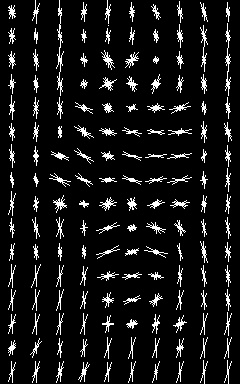
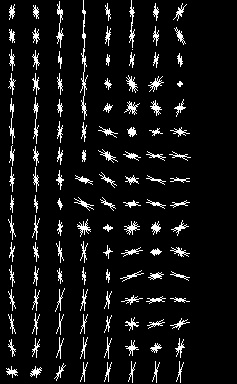
HOG compute添加说明

diff --git a/HOGvisualize/opencvtest/main.cpp b/HOGvisualize/opencvtest/main.cpp
@@ -3,8 +3,177 @@
 using namespace std;
 using namespace cv;
 
-// HOGDescriptor visual_imagealizer
-// adapted for arbitrary size of feature sets and training images
+/*
+OpenCV3.2/sources/samples/cpp/train_HOG.cpp
+Mat get_hogdescriptor_visu(const Mat& color_origImg, vector<float>& descriptorValues, const Size & size )
+也是实现可视化HOG
+From http://www.juergenwiki.de/work/wiki/doku.php?id=public:hog_descriptor_computation_and_visualization
+*/
+Mat get_hogdescriptor_visu(const Mat& color_origImg, vector<float>& descriptorValues, const Size & size)
+{
+	const int DIMX = size.width;
+	const int DIMY = size.height;
+	float zoomFac = 3;
+	Mat visu;
+	resize(color_origImg, visu, Size((int)(color_origImg.cols*zoomFac), (int)(color_origImg.rows*zoomFac)));
+
+	int cellSize = 8;
+	int gradientBinSize = 9;
+	float radRangeForOneBin = (float)(CV_PI / (float)gradientBinSize); // dividing 180 into 9 bins, how large (in rad) is one bin?
+
+																	   // prepare data structure: 9 orientation / gradient strenghts for each cell
+	int cells_in_x_dir = DIMX / cellSize;
+	int cells_in_y_dir = DIMY / cellSize;
+	float*** gradientStrengths = new float**[cells_in_y_dir];
+	int** cellUpdateCounter = new int*[cells_in_y_dir];
+	for (int y = 0; y<cells_in_y_dir; y++)
+	{
+		gradientStrengths[y] = new float*[cells_in_x_dir];
+		cellUpdateCounter[y] = new int[cells_in_x_dir];
+		for (int x = 0; x<cells_in_x_dir; x++)
+		{
+			gradientStrengths[y][x] = new float[gradientBinSize];
+			cellUpdateCounter[y][x] = 0;
+
+			for (int bin = 0; bin<gradientBinSize; bin++)
+				gradientStrengths[y][x][bin] = 0.0;
+		}
+	}
+
+	// nr of blocks = nr of cells - 1
+	// since there is a new block on each cell (overlapping blocks!) but the last one
+	int blocks_in_x_dir = cells_in_x_dir - 1;
+	int blocks_in_y_dir = cells_in_y_dir - 1;
+
+	// compute gradient strengths per cell
+	int descriptorDataIdx = 0;
+	int cellx = 0;
+	int celly = 0;
+
+	for (int blockx = 0; blockx<blocks_in_x_dir; blockx++)
+	{
+		for (int blocky = 0; blocky<blocks_in_y_dir; blocky++)
+		{
+			// 4 cells per block ...
+			for (int cellNr = 0; cellNr<4; cellNr++)
+			{
+				// compute corresponding cell nr
+				cellx = blockx;
+				celly = blocky;
+				if (cellNr == 1) celly++;
+				if (cellNr == 2) cellx++;
+				if (cellNr == 3)
+				{
+					cellx++;
+					celly++;
+				}
+
+				for (int bin = 0; bin<gradientBinSize; bin++)
+				{
+					float gradientStrength = descriptorValues[descriptorDataIdx];
+					descriptorDataIdx++;
+
+					gradientStrengths[celly][cellx][bin] += gradientStrength;
+
+				} // for (all bins)
+
+
+				  // note: overlapping blocks lead to multiple updates of this sum!
+				  // we therefore keep track how often a cell was updated,
+				  // to compute average gradient strengths
+				cellUpdateCounter[celly][cellx]++;
+
+			} // for (all cells)
+
+
+		} // for (all block x pos)
+	} // for (all block y pos)
+
+
+	  // compute average gradient strengths
+	for (celly = 0; celly<cells_in_y_dir; celly++)
+	{
+		for (cellx = 0; cellx<cells_in_x_dir; cellx++)
+		{
+
+			float NrUpdatesForThisCell = (float)cellUpdateCounter[celly][cellx];
+
+			// compute average gradient strenghts for each gradient bin direction
+			for (int bin = 0; bin<gradientBinSize; bin++)
+			{
+				gradientStrengths[celly][cellx][bin] /= NrUpdatesForThisCell;
+			}
+		}
+	}
+
+	// draw cells
+	for (celly = 0; celly<cells_in_y_dir; celly++)
+	{
+		for (cellx = 0; cellx<cells_in_x_dir; cellx++)
+		{
+			int drawX = cellx * cellSize;
+			int drawY = celly * cellSize;
+
+			int mx = drawX + cellSize / 2;
+			int my = drawY + cellSize / 2;
+
+			rectangle(visu, Point((int)(drawX*zoomFac), (int)(drawY*zoomFac)), Point((int)((drawX + cellSize)*zoomFac), (int)((drawY + cellSize)*zoomFac)), Scalar(100, 100, 100), 1);
+
+			// draw in each cell all 9 gradient strengths
+			for (int bin = 0; bin<gradientBinSize; bin++)
+			{
+				float currentGradStrength = gradientStrengths[celly][cellx][bin];
+
+				// no line to draw?
+				if (currentGradStrength == 0)
+					continue;
+
+				float currRad = bin * radRangeForOneBin + radRangeForOneBin / 2;
+
+				float dirVecX = cos(currRad);
+				float dirVecY = sin(currRad);
+				float maxVecLen = (float)(cellSize / 2.f);
+				float scale = 2.5; // just a visualization scale, to see the lines better
+
+								   // compute line coordinates
+				float x1 = mx - dirVecX * currentGradStrength * maxVecLen * scale;
+				float y1 = my - dirVecY * currentGradStrength * maxVecLen * scale;
+				float x2 = mx + dirVecX * currentGradStrength * maxVecLen * scale;
+				float y2 = my + dirVecY * currentGradStrength * maxVecLen * scale;
+
+				// draw gradient visualization
+				line(visu, Point((int)(x1*zoomFac), (int)(y1*zoomFac)), Point((int)(x2*zoomFac), (int)(y2*zoomFac)), Scalar(0, 255, 0), 1);
+
+			} // for (all bins)
+
+		} // for (cellx)
+	} // for (celly)
+
+
+	  // don't forget to free memory allocated by helper data structures!
+	for (int y = 0; y<cells_in_y_dir; y++)
+	{
+		for (int x = 0; x<cells_in_x_dir; x++)
+		{
+			delete[] gradientStrengths[y][x];
+		}
+		delete[] gradientStrengths[y];
+		delete[] cellUpdateCounter[y];
+	}
+	delete[] gradientStrengths;
+	delete[] cellUpdateCounter;
+
+	return visu;
+
+} // get_hogdescriptor_visu
+
+
+/*
+	HOGDescriptor visual_imagealizer
+	adapted for arbitrary size of feature sets and training images
+	适应任何大小的特征集和训练图片
+	http://download.csdn.net/detail/u011285477/9472067
+*/
 Mat get_hogdescriptor_visual_image(Mat& origImg,
 	vector<float>& descriptorValues,//hog特征向量
 	Size winSize,//图片窗口大小
@@ -192,12 +361,27 @@ Mat get_hogdescriptor_visual_image(Mat& origImg,
 
 int main()
 {
-	
-	HOGDescriptor hog;//使用的是默认的hog参数
+	 
+	HOGDescriptor hog;//使用的是默认的hog参数  也可以通过HOGDescriptor::load(const String& filename, const String& objname)加载XML文件初始化 下面参数 还有 vector<float>SVMDetector 参数
 	/*
-	HOGDescriptor(Size win_size=Size(64, 128), Size block_size=Size(16, 16), Size block_stride=Size(8, 8), 
-	Size cell_size=Size(8, 8), int nbins=9, double win_sigma=DEFAULT_WIN_SIGMA(DEFAULT_WIN_SIGMA=-1), 
-	double threshold_L2hys=0.2, bool gamma_correction=true, int nlevels=DEFAULT_NLEVELS)
+	HOGDescriptor(
+		Size win_size=Size(64, 128),	//	检测窗口大小
+		Size block_size=Size(16, 16),	//	Block大小
+		Size block_stride=Size(8, 8),	//	Block每次移动宽度包括水平和垂直两个方向  
+		Size cell_size=Size(8, 8),		//	Cell单元大小  block_size./cell_size = 一个block中有多少cell
+		int nbins=9,					//	直方图bin数目 
+		int _derivAperture=1			//	?? 
+		double win_sigma=DEFAULT_WIN_SIGMA(DEFAULT_WIN_SIGMA=-1),
+										//	高斯函数的方差  默认-1 
+										//  默认情况实际是(blockSize.width + blockSize.height)/8  确保block取值在2*sigma之间 
+		 int _histogramNormType=HOGDescriptor::L2Hys,
+										//	直方图归一化类型(最后这个检测窗口的一维特征向量 归一化)
+		double threshold_L2hys=0.2,		//	L2Hys化中限制最大值为0.2  归一化后不能超过0.2 
+
+		bool gamma_correction=true,		//  是否Gamma校正 
+		int nlevels=DEFAULT_NLEVELS,
+		bool _signedGradient= false		//  bin角度在0~360(true) 还是0~180(false)
+		)
 
 	Parameters:	
 	win_size – Detection window size. Align to block size and block stride.
@@ -215,18 +399,96 @@ int main()
 	//			block_y_num = ( 80  - 16 ) / 8 + 1 =  9 
 	//			
 
-	int width = 80;
-	int height = 128;
-	hog.winSize=Size(width,height);
+	//int width = 80;
+	//int height = 128;
+	//hog.winSize=Size(width,height); // 直接使用图片的大小
 	vector<float> des;//HOG特征向量
 	Mat src = imread("objimg.jpg");
-	Mat dst ;
-	resize(src,dst,Size(width,height));//规范图像尺寸
+	int width =  src.cols;
+	int height = src.rows;
+	std::cout << "channels : " << src.channels() << std::endl;
+	std::cout << "cols : " << src.cols << std::endl;
+	std::cout << "elemSize1 : " << src.elemSize1() << std::endl;// 一个元素的一个通道占的字节数(数据类型!)
+	std::cout << "elemSize : " << src.elemSize() << std::endl;// 3 每个元素占字节数  = channel * elemSize1 (float double uchar )
+	std::cout << "step : " << src.step  << std::endl;		// 237  step[0]  图片是cols=79 rows=128 elemSize=3 79*3 = 237
+	std::cout << "step[0] : " << src.step[0] << std::endl; // 237		step[0]		一行占多少字节
+	std::cout << "step[1] : " << src.step[1] << std::endl; // 3			step[1]		一个元素占多少字节 == Mat::elemSize()
+	std::cout << "step[2] : " << src.step[2] << std::endl; // N/A(dim=2) 二维无效
+	std::cout << "Mat.step.size_t() " << size_t(src.step) << std::endl; // 237 step[0]
+
+	/*
+		如果dim=3 三维 
+		step[0] = 面的大小(字节数)
+		step[1] = 行的大小(字节数)
+		step[2] = 元素的大小(字节数)
+	
+	*/
+
+	Mat& dst = src  ;
+	//resize(src,dst,Size(width,height));//规范图像尺寸
 	imshow("src",src);
-	hog.compute(dst,des);//计算hog特征
+	hog.compute(
+		dst,
+		des ,
+		cv::Size(8,8)/*检测窗口移动的步进 默认=cellSize */, 
+		cv::Size(8,8)/*在原图像加上多少个像素 padding*2 */
+	);//计算hog特征
 	Mat background = Mat::zeros(Size(width,height),CV_8UC1);//设置黑色背景图，因为要用白色绘制hog特征
 
+	std::cout << "hot feature diamens = " << des.size() << std::endl;
+	/*
+	virtual void compute(
+			InputArray img,							// in 待检测或计算的图像
+			CV_OUT std::vector<float>& descriptors, // out Hog描述结构
+			Size winStride = Size(),				// in 窗口移动步伐 如果不指定的话 就是 winStride = cellSize;
+			Size padding = Size(),					// in 扩充图像相关尺寸
+			const std::vector<Point>& locations = std::vector<Point>()
+													// in 对于正样本可以直接取(0,0),负样本为随机产生合理坐标范围内的点坐标
+			) const;
 
+
+	CV_Assert(blockSize.width % cellSize.width == 0 &&
+			blockSize.height % cellSize.height == 0);
+	CV_Assert((winSize.width - blockSize.width) % blockStride.width == 0 &&
+			(winSize.height - blockSize.height) % blockStride.height == 0 );
+
+	src:
+		rows	128	int
+		cols	79	int
+	HOGDescriptor:
+	+		winSize		{width=64 height=128 }	cv::Size_<int>
+	+		blockSize	{width=16 height=16 }	cv::Size_<int>
+	+		blockStride	{width=8 height=8 }		cv::Size_<int>
+	+		cellSize	{width=8 height=8 }		cv::Size_<int>
+			nbins	9	int
+			winStride = cellSize
+
+	HOG特征向量 7560  = (2) * ( 7*15 * (2*2) * 9  ) 
+						|		|		|     |_一个cell的特征向量维数=nbins
+						|		|		|_一个block的cell数目
+						|		|_ 一个window的block数目 (winSize.w-blockSize.w)/blockStride.w + 1  
+						|_ 一整图中 window的数目 需要根据参数 winStride和padding 还有原图的宽高 
+								( 79 - 64 ) / 8  + 1 =  1(1.875) + 1 = 2  宽有 0.875*8=7个像素被拆去
+								( from HOGCache::windowsInImage(const Size& imageSize, const Size& winStride)  )
+								 imageSize 是被padded过的 默认是0
+								 如果HOGDescriptor.compute(.. Size padding = Size(8,8) ..)
+								 那么图片大小 79,128 --> 79+8*2,128+8*2  ?? 为什么padding要乘2  
+								窗口数目 = [(79+8*2-64)/8+1]  * [(128+8*2-128)/8+1] = 4 * 3 = 12  
+								整个图像特征点 12 * ( 7*15 * (2*2) * 9  ) = 45360 
+
+
+
+	HOGDescriptor::detectMultiScale  使用HOG特征进行多尺度检测
+		HOGInvoker(...)
+			hog->detect  --> void HOGDescriptor::detect(const Mat& img, ....
+
+	HOGCache
+	HOGInvoker
+	HOGDescriptor
+
+	int gcd(int a,int b)//最大公约数Greatest Common Divisor
+							辗转相除法求最大公约数的简写算法，也称欧几里德算法
+	*/
 
 	Mat d = get_hogdescriptor_visual_image(background,des,hog.winSize,hog.cellSize,3,2.5);
 	imshow("dst",d);
